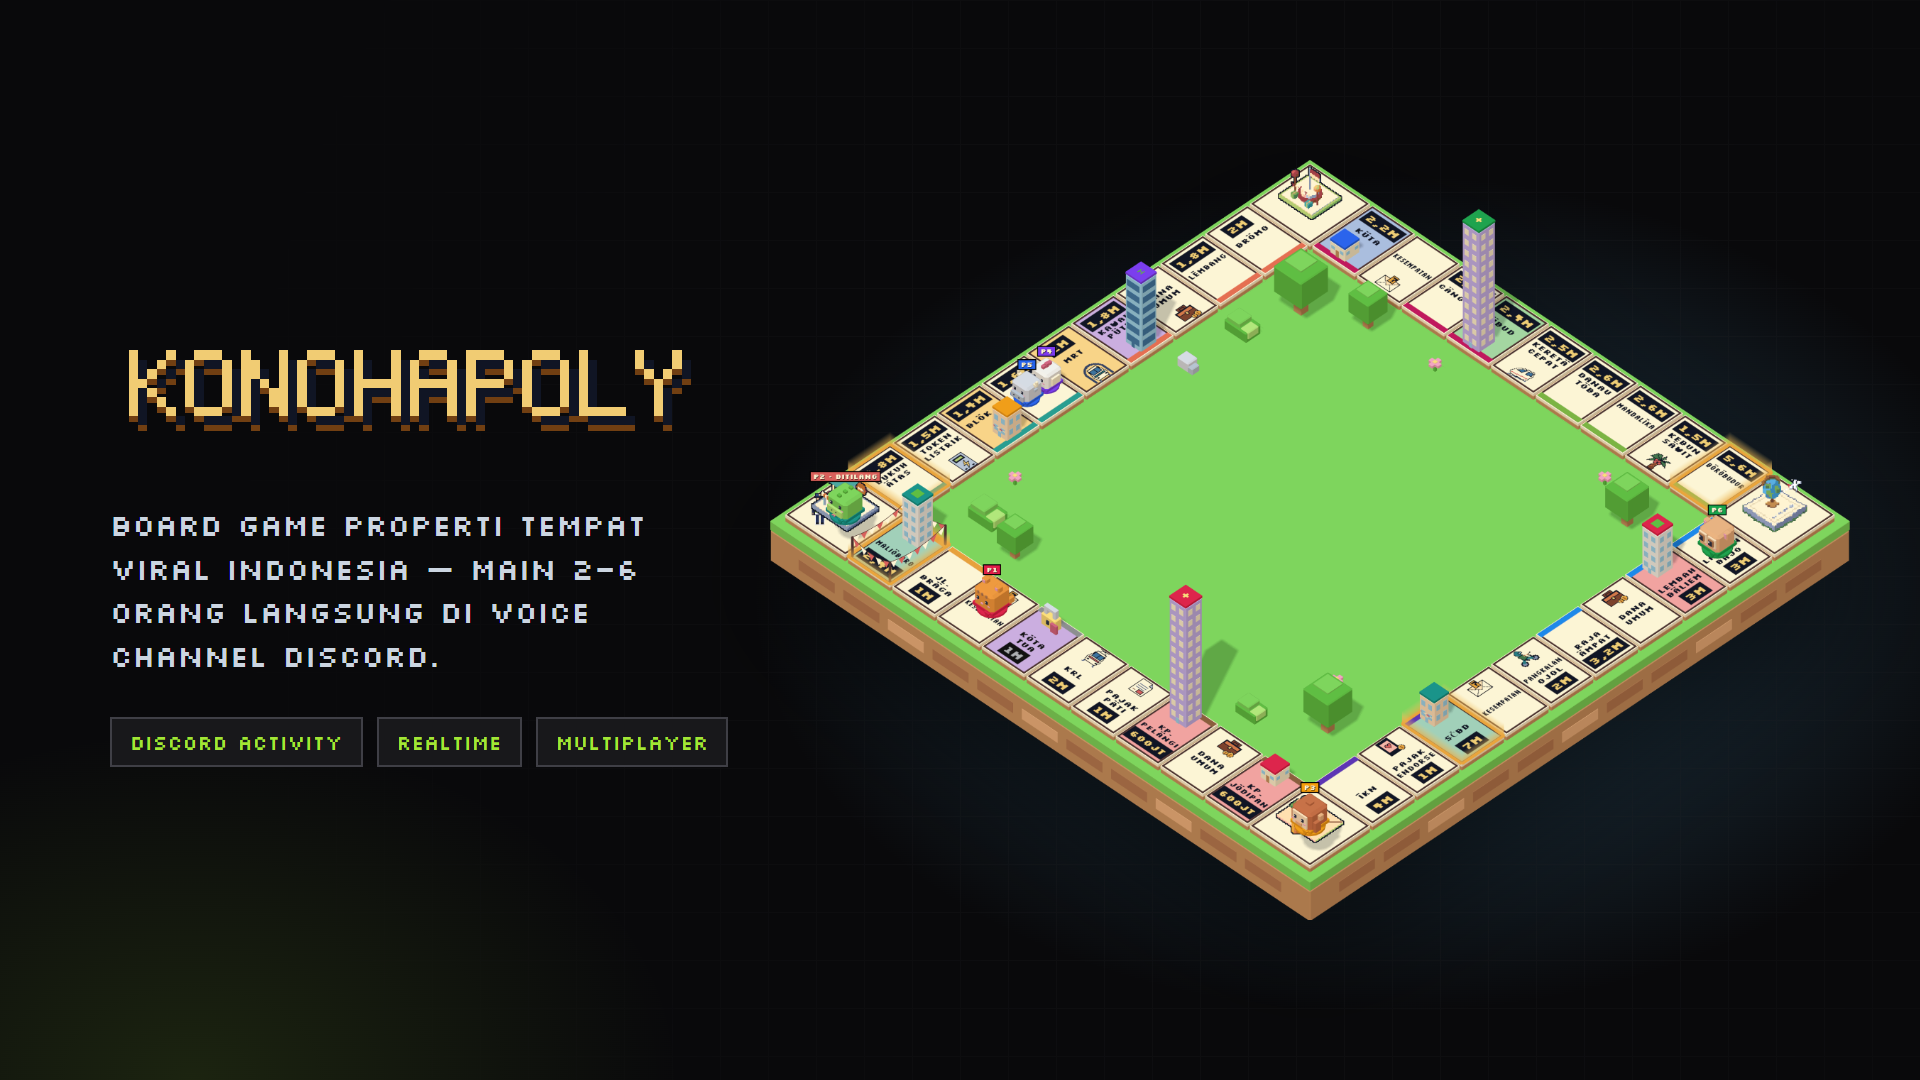
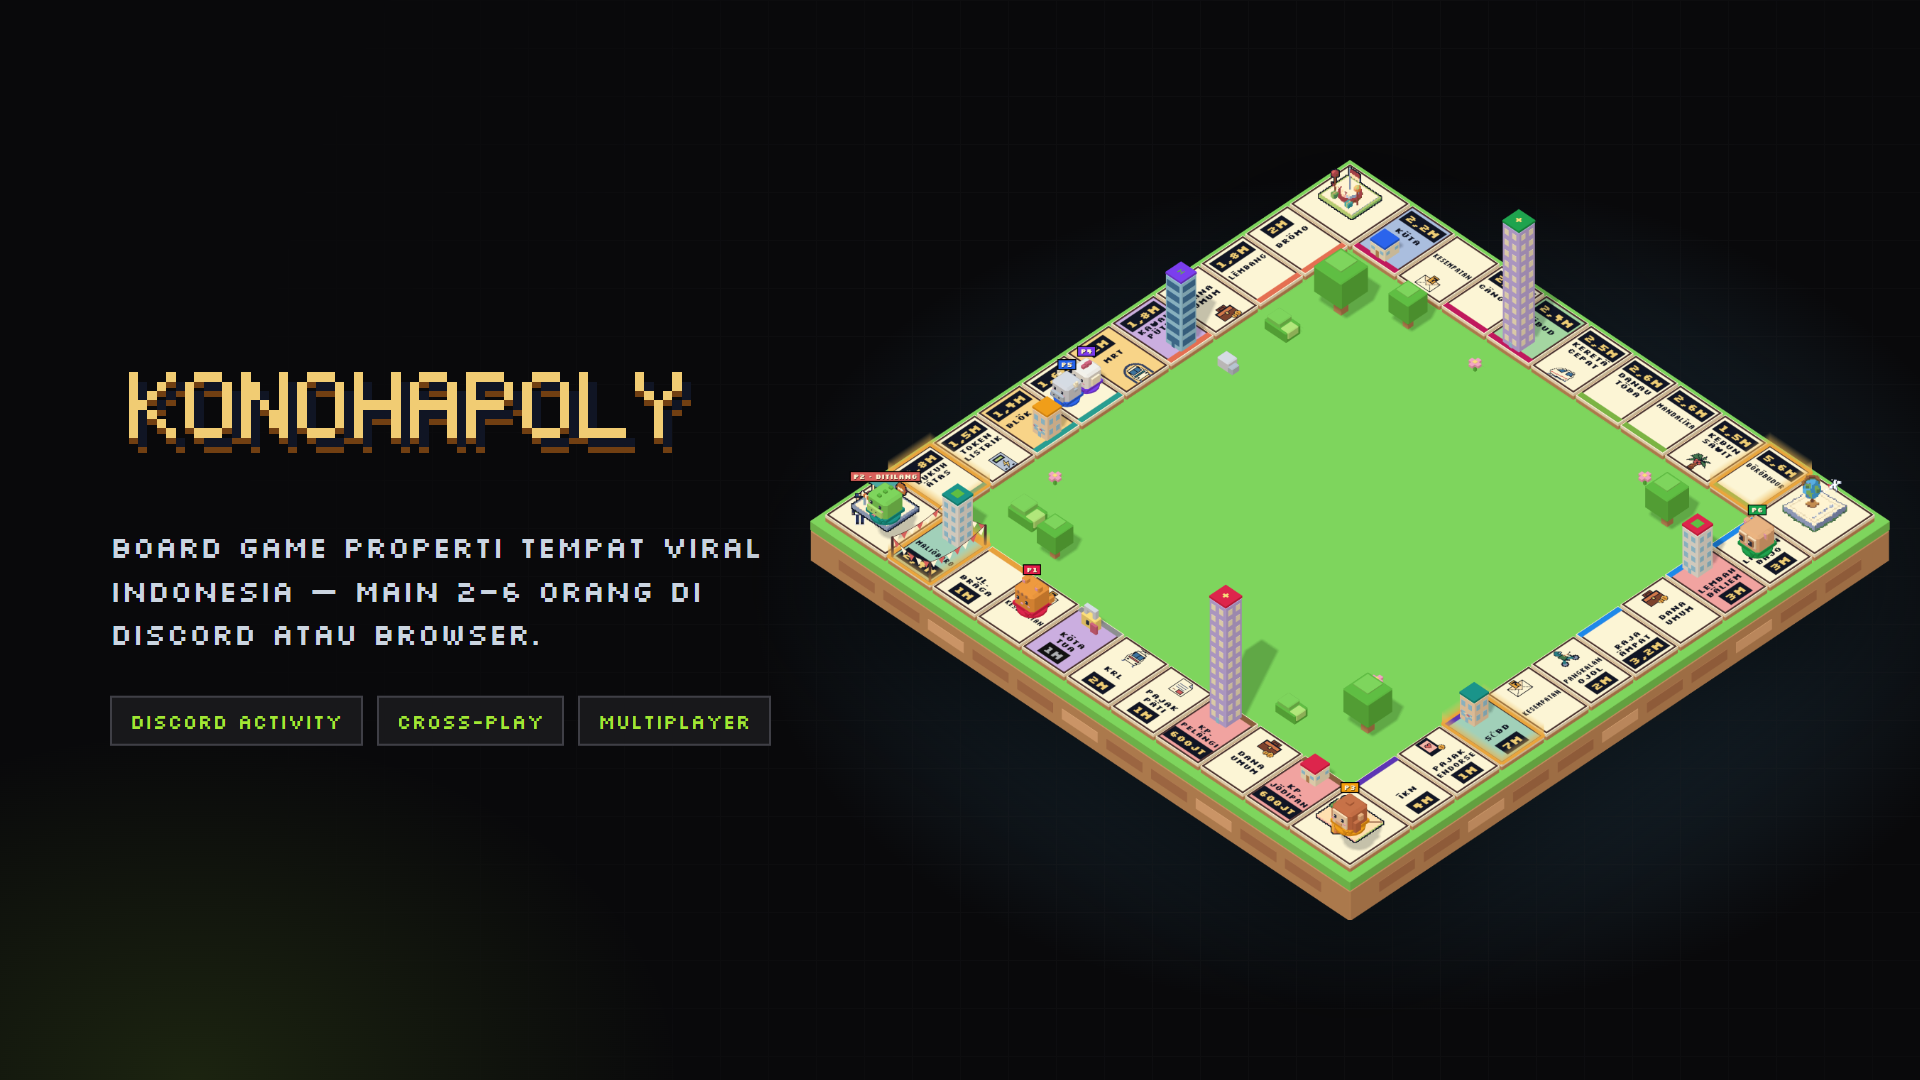
feat: update Konohapoly entry with web cross-play and link
Add the public web build as the primary link alongside the Discord
Activity, refresh the description and cover for browser cross-play,
and label multi-link visit buttons by hostname so they're distinguishable.

Changed region(s): [[0.0625, 0.1528, 1.0, 0.8556], [0.0625, 0.3056, 0.375, 0.4278]]

diff --git a/src/features/portfolio-catalog/data.ts b/src/features/portfolio-catalog/data.ts
@@ -46,8 +46,9 @@ export const portfolioCatalogItems: PortfolioCatalogItem[] = [
     image: "/konohapoly-discord-activity.png",
     title: "Konohapoly — Discord Activity",
     description:
-      "Built a multiplayer property-trading board game themed around viral Indonesian places, playable by 2–6 players directly inside Discord voice channels as a Discord Activity. Rendered an isometric voxel board with React Three Fiber. Designed an authoritative Bun server (Hono API + WebSocket rooms per activity instance) with cryptographic RNG for dice and cards, a pure game-rules engine shared across server, bots, tests, and a Monte Carlo balance simulator, plus Discord OAuth2 and crash recovery via Redis snapshots.",
+      "Built a multiplayer property-trading board game themed around viral Indonesian places for 2–6 players, playable as a Discord Activity inside voice channels or straight from the browser — web guests and Discord players can share the same table via a room code or invite link. Rendered an isometric voxel board with React Three Fiber, with auctions, private rooms, host settings, and a leaderboard. Designed an authoritative Bun server (Hono API + WebSocket rooms) with cryptographic RNG for dice and cards, HMAC-signed guest sessions, rate limiting, and Redis snapshots for crash recovery, backed by a pure game-rules engine shared across server, bots, tests, and a Monte Carlo balance simulator.",
     href: [
+      "https://konohapoly.kursigoyang.net/",
       "https://discord.com/activities/1562451254016348273?referrer_id=501816005429952543",
     ],
     tools: [

diff --git a/src/features/portfolio-catalog/components/portfolio-catalog-card.tsx b/src/features/portfolio-catalog/components/portfolio-catalog-card.tsx
@@ -130,7 +130,9 @@ const PortfolioCatalogCard = ({
                 type="button"
               >
                 <Link href={url} rel="noopener noreferrer" target="_blank">
-                  Visit Project
+                  {href.length > 1
+                    ? `Visit ${new URL(url).hostname}`
+                    : "Visit Project"}
                   <ArrowUpRight className="h-4 w-4" />
                 </Link>
               </Button>
